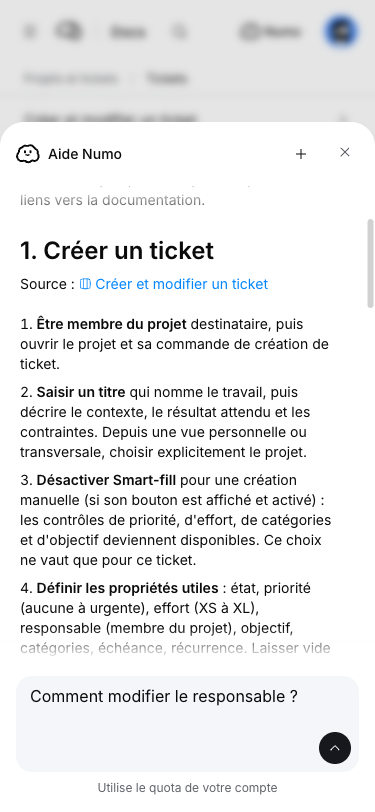
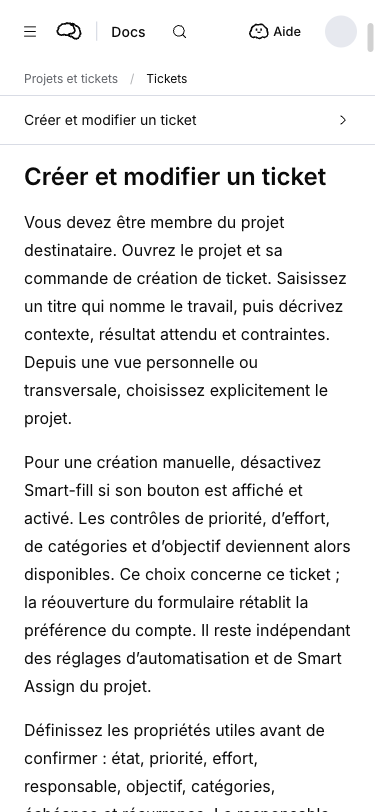
fix: localize documentation help launcher label

diff --git a/components/documentation/documentation-session.tsx b/components/documentation/documentation-session.tsx
@@ -72,7 +72,7 @@ function SessionAccountActions({ currentId, locale }: { currentId: string | null
   if (!user) return <DocumentationGuestActions currentId={currentId} locale={locale} />;
   return <div className="flex items-center gap-2">
     <Button variant="ghost" size="sm" aria-expanded={session.open} aria-controls="documentation-numo" onClick={() => session.setOpen(!session.open)} data-documentation-numo-launcher>
-      <NumoFace className="size-5" />Numo
+      <NumoFace className="size-5" />{t("help")}
     </Button>
     <Link href="/settings?tab=profile" aria-label={t("account")} className="flex size-11 items-center justify-center rounded-full focus-visible:outline-2 focus-visible:outline-ring"><UserAvatar seed={avatar} className="size-8" /></Link>
   </div>;
